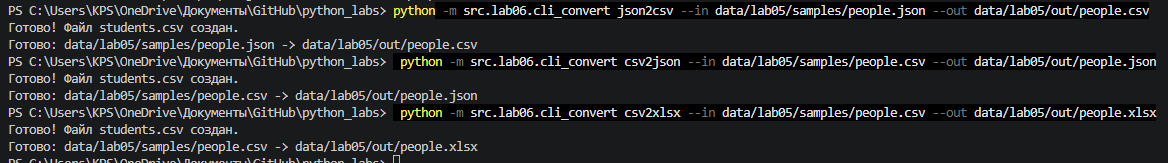
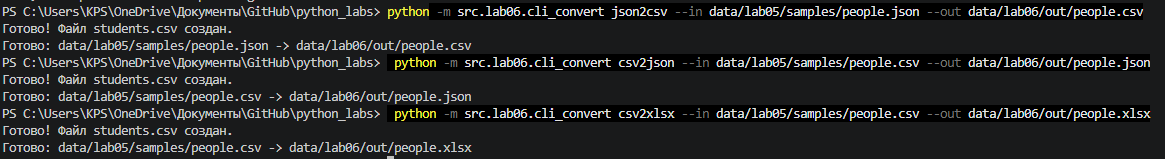
laba6

diff --git a/src/lab06/README.md b/src/lab06/README.md
@@ -79,7 +79,7 @@ if __name__ == "__main__":
 ## Выводы
 ### cat — вывод файла
 ```
-python -m src.lab06.cli_text cat --input data/lab05/samples/people.csv -n
+python -m src.lab06.cli_text cat --input data/lab05/samples/people.csv
 python -m src.lab06.cli_text cat --input data/lab05/samples/people.csv -n
 ```
 Файл читается в UTF-8. С флагом `-n` каждая строка получает номер в формате `1: содержимое строки`.
@@ -92,7 +92,7 @@ python -m src.lab06.cli_text cat --input data/lab05/samples/people.csv -n
 python -m src.lab06.cli_text stats --input data/lab06/samples/moscow.txt
 python -m src.lab06.cli_text stats --input data/lab06/samples/moscow.txt --top 3 
 ```
-Результат выводится в формате «слово — табуляция — количество», по убыванию частоты; при равной частоте — по алфавиту. Если разных слов меньше, чем `N`, выводятся все имеющиеся. Значение `--top` должно быть положительным целым числом.
+Функция выводит общее количество слов, количество уникальных слов, а затем список самых частых слов в формате слово: количество. По умолчанию выводится Топ-5, но с помощью флага --top можно задать любое другое положительное число. Значение --top проверяется: если оно меньше 1, программа выдает ошибку.
 
 ![фото](../../images/lab06/v2.png)
 
@@ -179,9 +179,9 @@ if __name__ == "__main__":
     main()
 ```
 ```
- python -m src.lab06.cli_convert json2csv --in data/lab05/samples/people.json --out data/lab05/out/people.csv
- python -m src.lab06.cli_convert csv2json --in data/lab05/samples/people.csv --out data/lab05/out/people.json
- python -m src.lab06.cli_convert csv2xlsx --in data/lab05/samples/people.csv --out data/lab05/out/people.xlsx
+ python -m src.lab06.cli_convert json2csv --in data/lab05/samples/people.json --out data/lab06/out/people.csv
+ python -m src.lab06.cli_convert csv2json --in data/lab05/samples/people.csv --out data/lab06/out/people.json
+ python -m src.lab06.cli_convert csv2xlsx --in data/lab05/samples/people.csv --out data/lab06/out/people.xlsx
  ```
 ![фото](../../images/lab06/v3.png)
 
